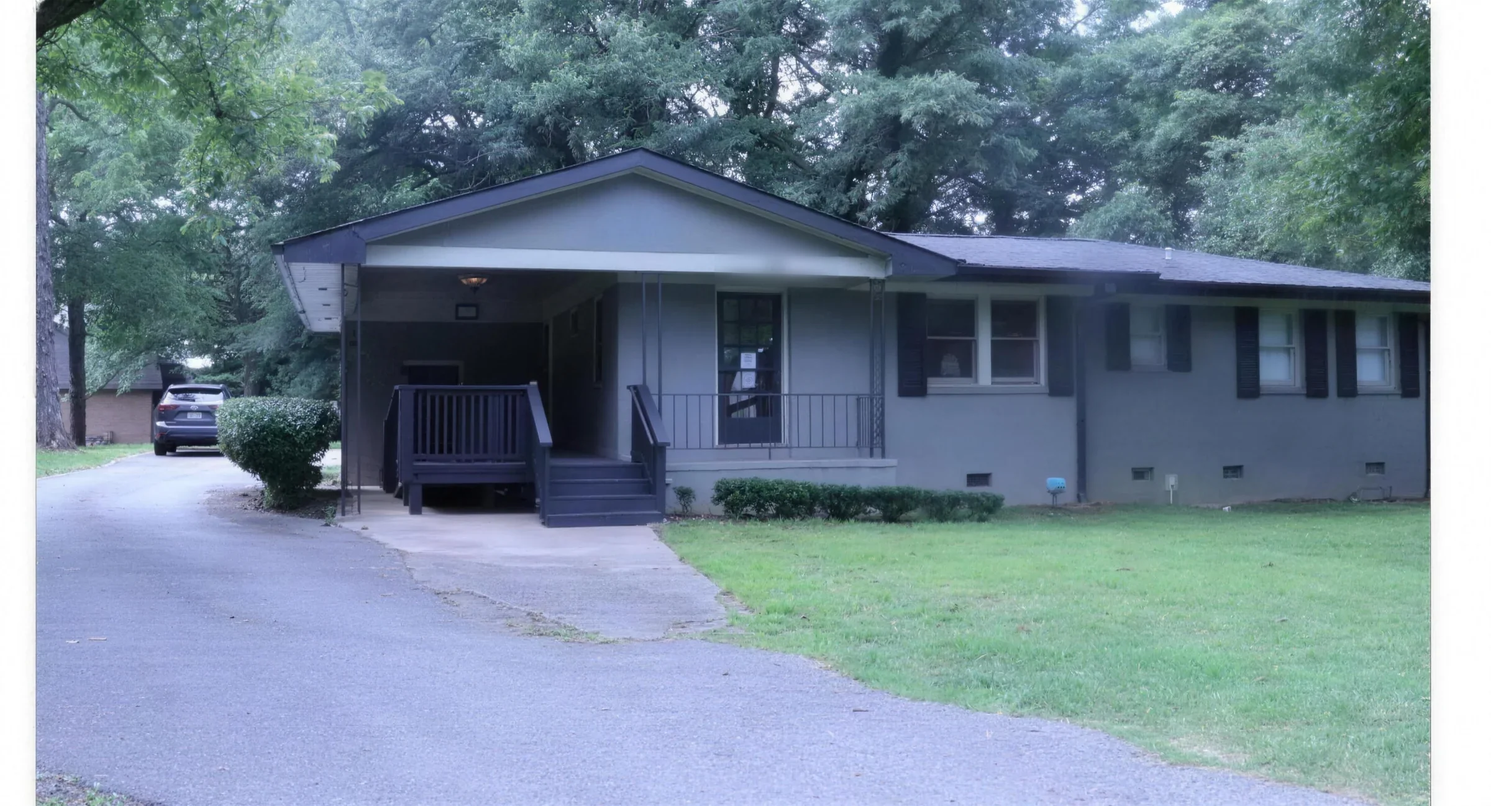
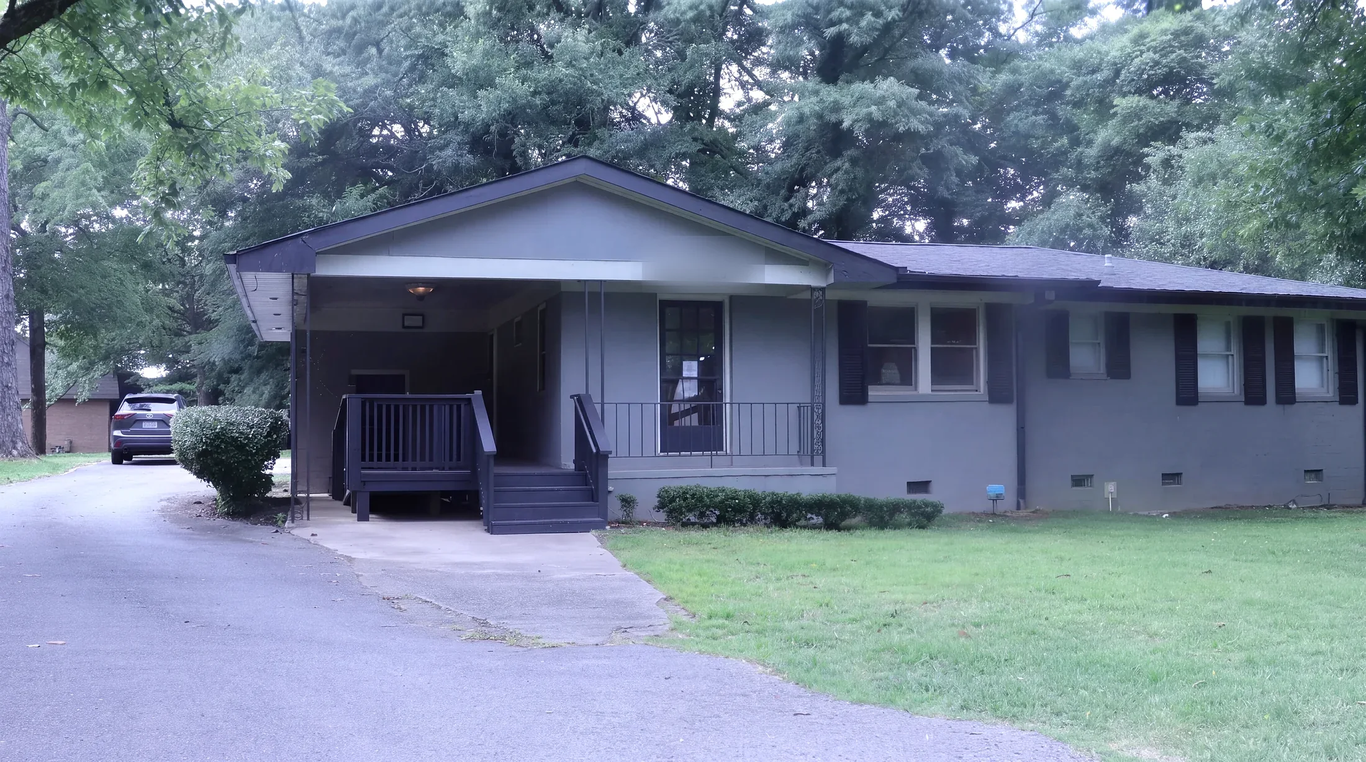
Restore the commercial photos and lighten the listing header wash
Both photos came from 736px originals, and every plain enlargement of them stayed soft. These are restorations from Higgsfield (Nano Banana Pro, 4K, faithful-restoration prompt) of the same shots, resized to 2200px WebP. Same building, framing, vehicles, light and season; detail is reconstructed, so the client's own photographs should replace them if they ever turn up.

710 Gaines: the house numbers are an unreadable smudge in the original and the model painted in digits, so that patch is softened out rather than showing an address that may be wrong.

The dark gradient over a listing header was heavy enough to make any photo look muddy: .45/.2/.78 becomes .22/.06/.72, which keeps the caption legible over the bottom.

diff --git a/assets/css/style.css b/assets/css/style.css
@@ -1556,7 +1556,7 @@ textarea:focus-visible { outline: 2px solid var(--clay); outline-offset: 3px; }
   content: "";
   position: absolute;
   inset: 0;
-  background: linear-gradient(180deg, rgba(20,23,15,.45), rgba(20,23,15,.2) 40%, rgba(20,23,15,.78));
+  background: linear-gradient(180deg, rgba(20,23,15,.22), rgba(20,23,15,.06) 38%, rgba(20,23,15,.72));
 }
 .detail__cap { position: absolute; left: 0; right: 0; bottom: 28px; z-index: 3; color: var(--bone); padding: 0 40px; }
 .detail__cap h2 { font-size: clamp(1.7rem, 3.4vw, 2.8rem); }

diff --git a/index.html b/index.html
@@ -14,7 +14,7 @@
      CSS and JS. The value is a hash of the file: it changes only when
      the file does. Re-stamp with tools/stamp-assets.py after editing
      either one. -->
-<link rel="stylesheet" href="assets/css/style.css?v=cb5ce892">
+<link rel="stylesheet" href="assets/css/style.css?v=96fd97da">
 <meta name="theme-color" content="#22362A">
 <meta name="color-scheme" content="light">
 <meta name="format-detection" content="telephone=yes">

diff --git a/properties.html b/properties.html
@@ -15,7 +15,7 @@
      CSS and JS. The value is a hash of the file: it changes only when
      the file does. Re-stamp with tools/stamp-assets.py after editing
      either one. -->
-<link rel="stylesheet" href="assets/css/style.css?v=cb5ce892">
+<link rel="stylesheet" href="assets/css/style.css?v=96fd97da">
 <meta name="theme-color" content="#22362A">
 <meta name="color-scheme" content="light">
 <meta name="format-detection" content="telephone=yes">
